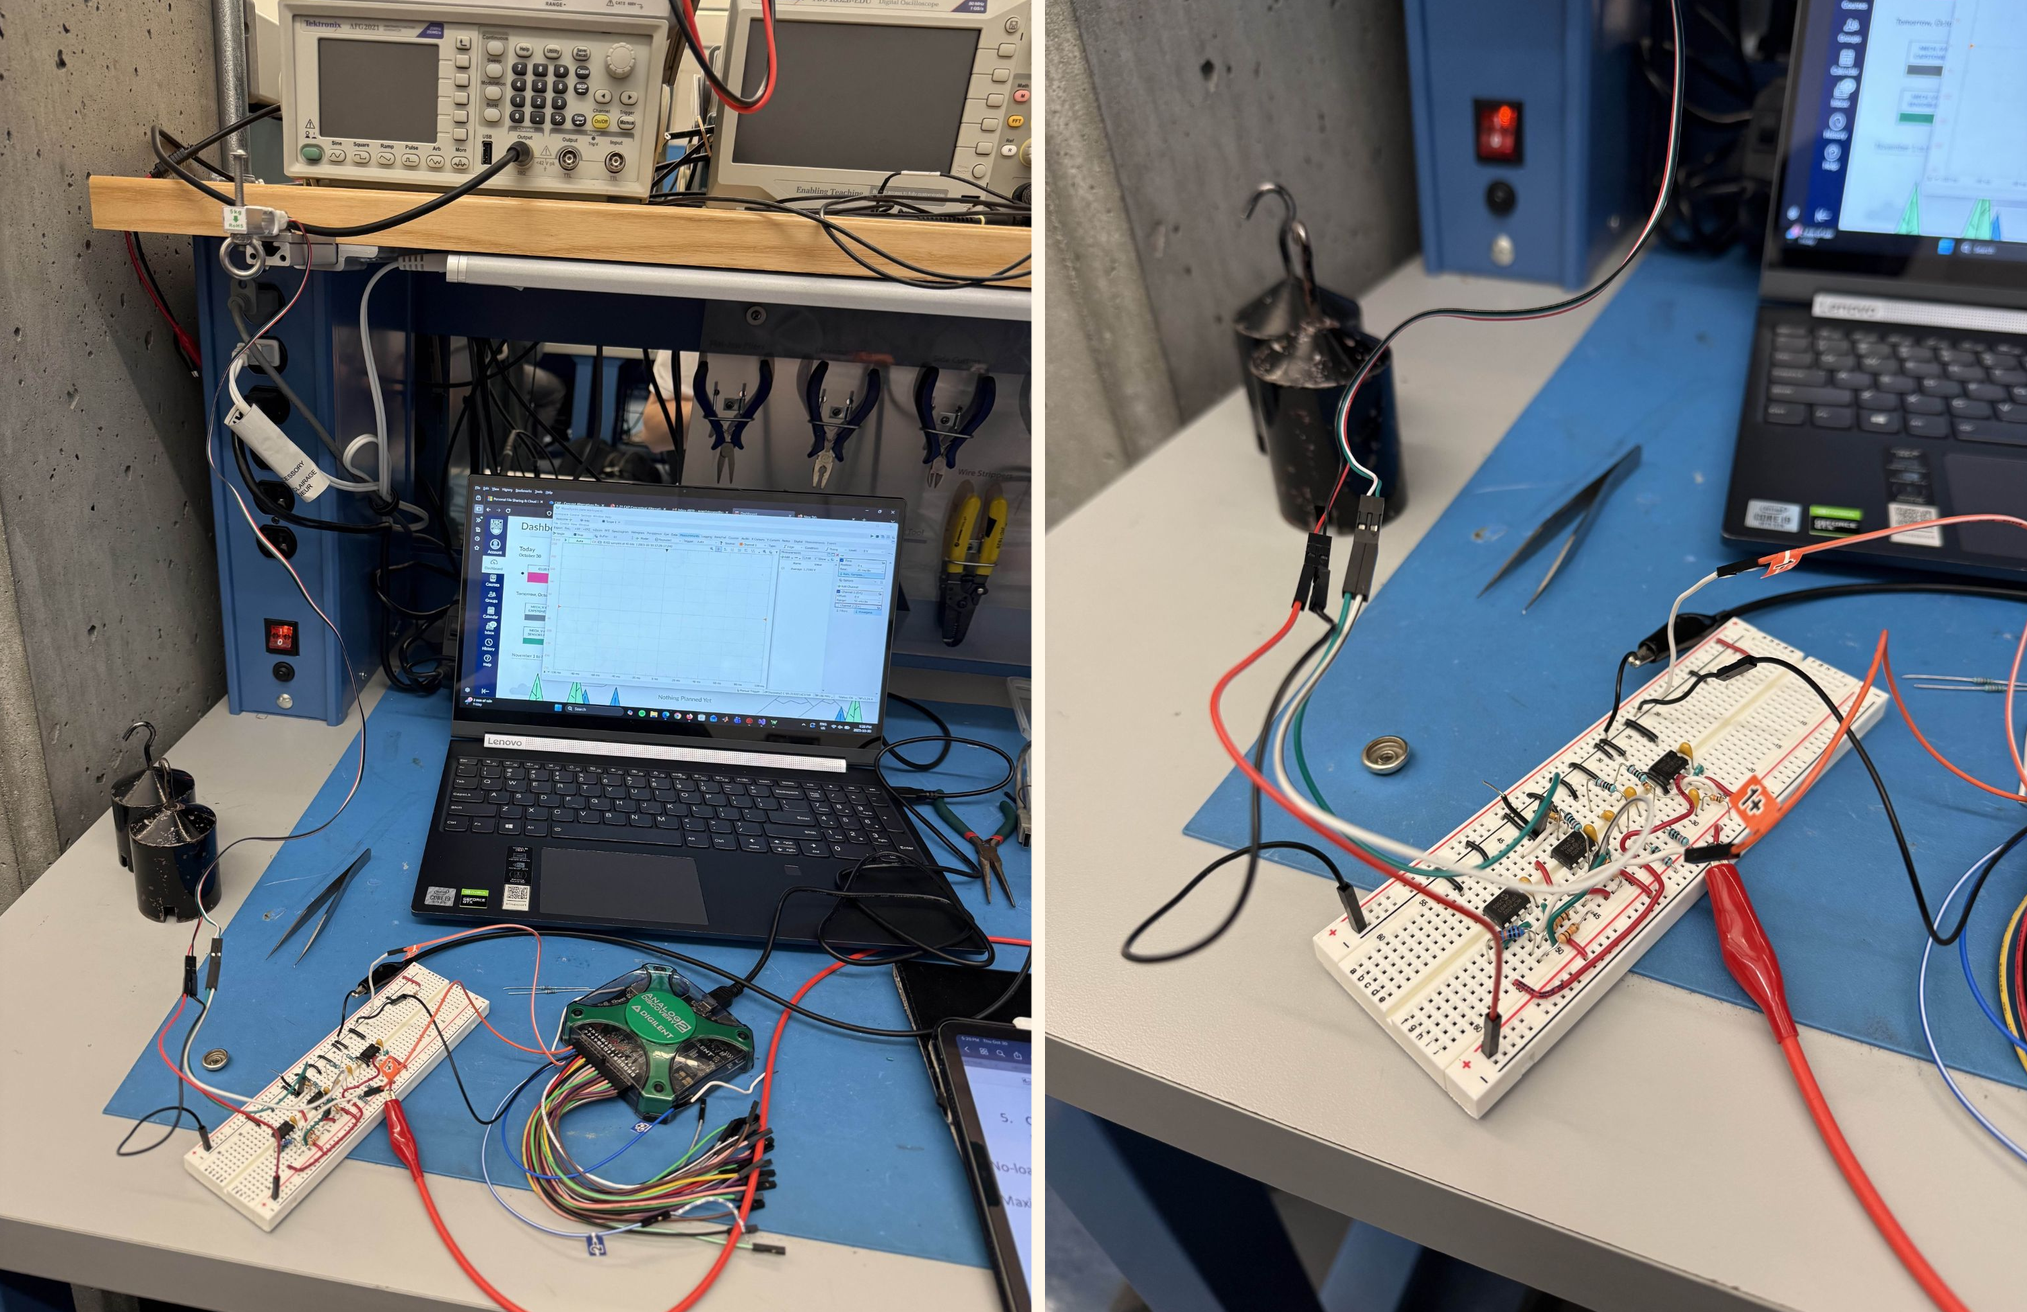
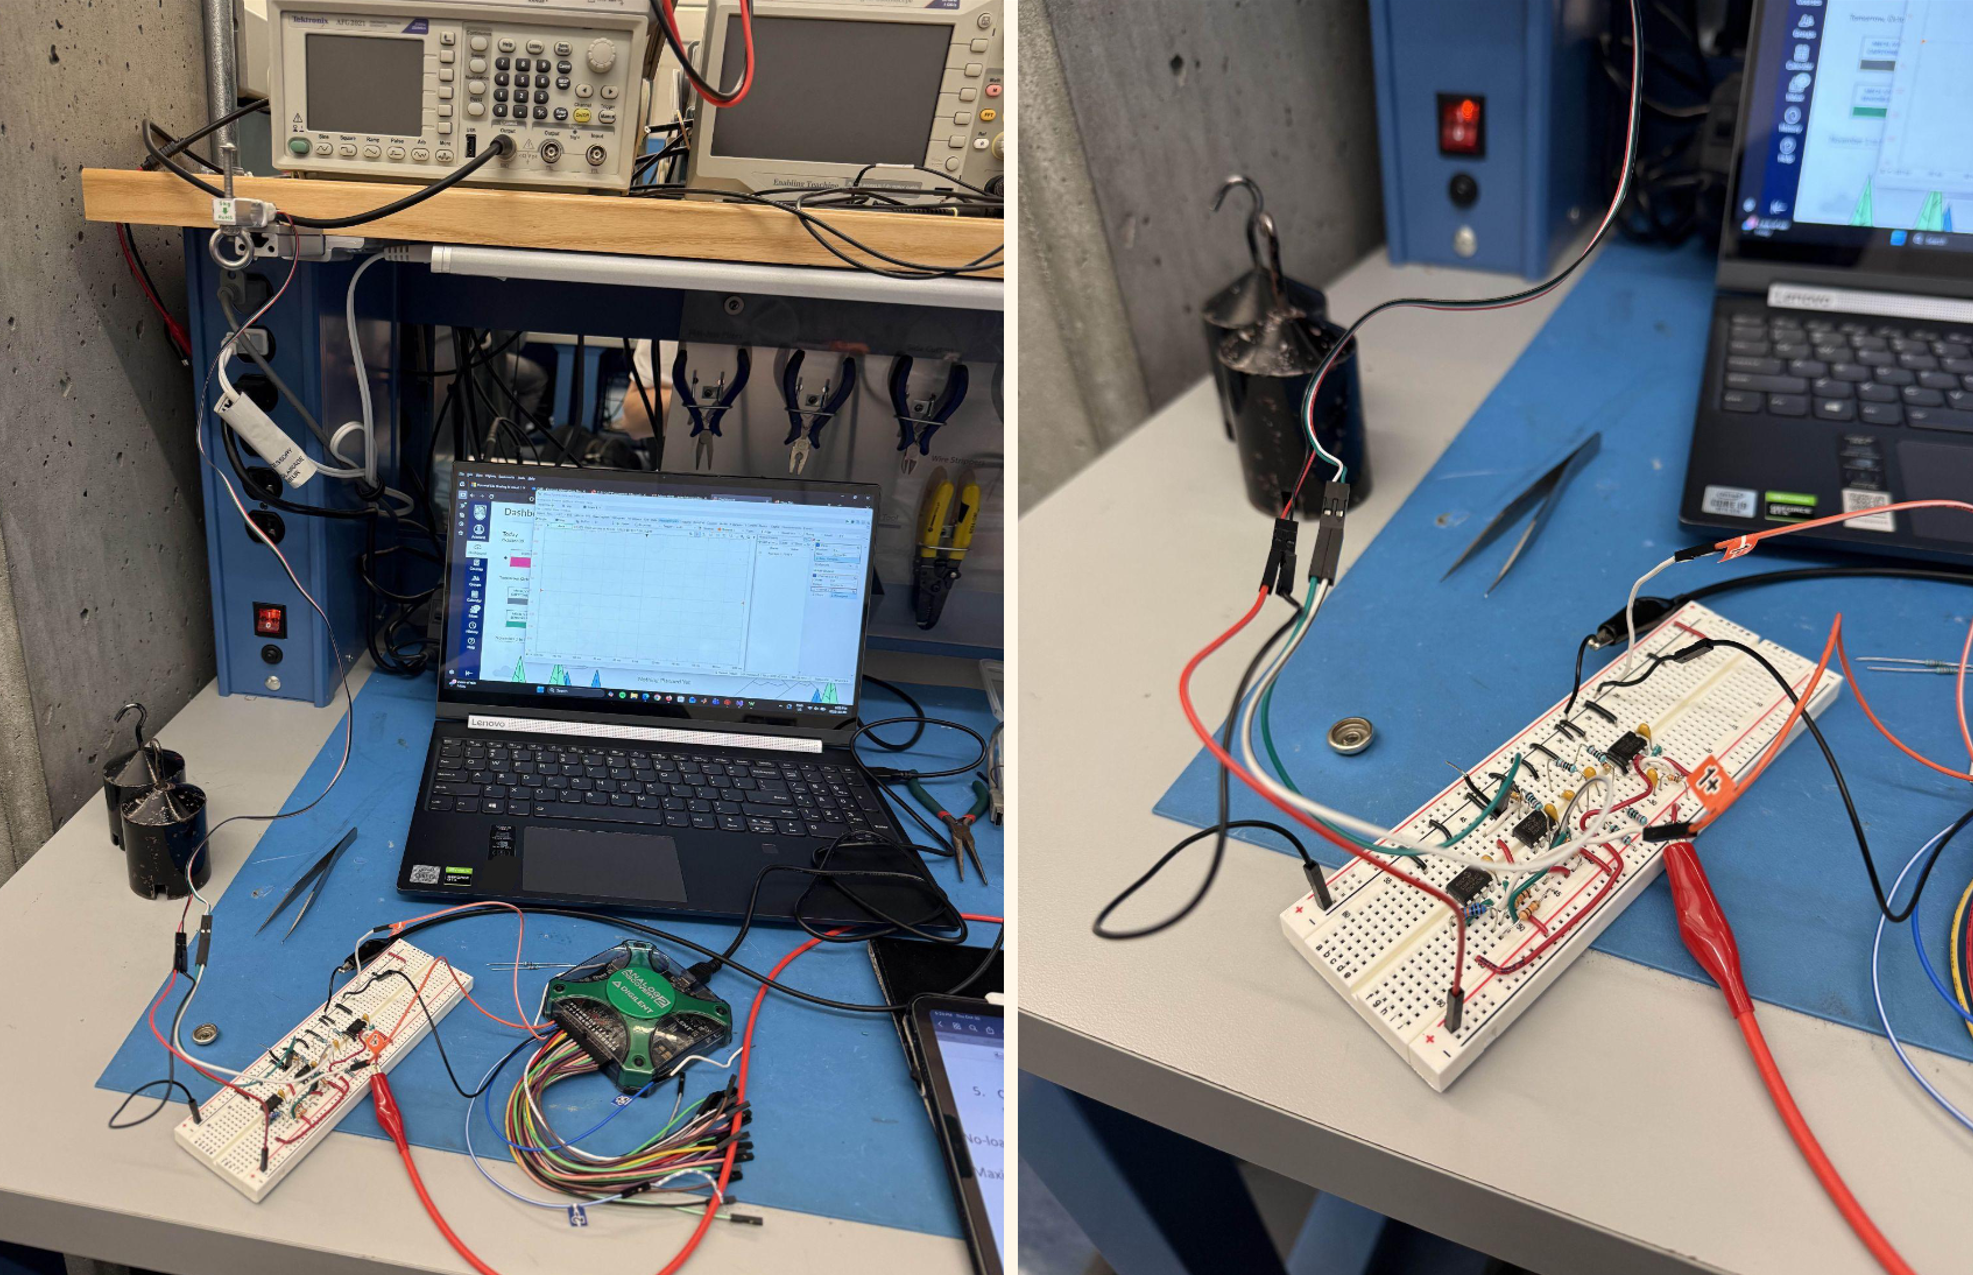
Adjusting images and adding content

diff --git a/index.html b/index.html
@@ -1911,6 +1911,29 @@ footer {
         </div>
       </div>
     </div>
+
+
+    <div class="project-card reveal reveal-delay-1" tabindex="0" data-project="pms">
+      <div class="project-card-img card-8-bg" style="background-image:url('images/sensors-00.png');background-size:cover;background-position:center;">
+        <div class="card-tag"><span class="card-tag-dot"></span> HACKATHON · DESIGN · ROBOTICS</div>
+      </div>
+      <div class="hover-reveal">
+        <div class="hover-reveal-content">
+          <div class="hover-reveal-desc"></div>
+          <span class="hover-reveal-cta">View Full Blueprint →</span>
+        </div>
+      </div>
+      <div class="project-card-body">
+        <div class="project-card-title">Weight Scale & NTC Temperature Sensor</div>
+        <div class="project-card-sub">Developing UI and Sensor Calibration | MECH 421 Sensor Lab</div>
+        <div class="project-card-footer">
+          <div class="spec-row"><span class="spec-pill">C#</span><span class="spec-pill">WinForms</span><span class="spec-pill">Circuits</span><span class="spec-pill">Instrumentation</span><span class="spec-pill">Firmware</span></div>
+          <span class="view-link">Blueprint →</span>
+        </div>
+      </div>
+    </div>
+
+
   </div>
 </section>
 
@@ -2805,31 +2828,51 @@ const PROJECTS = [
     title: 'Weight Scale & NTC Temperature Sensor',
     year: '2025',
     tag: 'SENSORS · CALIBRATION · FIRMWARE · SOFTWARE',
-    heroImg: 'images/sensors-00.png',
+    heroImg: 'images/sensors-10.png',
     heroImgPosition: 'center 40%',
     heroBg: 'linear-gradient(140deg, #0d1228 0%, #121a38 60%, #0a1020 100%)',
-    meta: { year: '2025', duration: '1 month', role: 'Lead', team: 'Solo' },
+    meta: { year: '2025', duration: '1 month', role: 'Solo', team: 'Solo' },
     overview: 'Given an MSP430FR5739 Microcontroller, wires, a breadboard, a strain gauge, and an NTC thermistor, I put together a functioning temperature sensor and weighing scale that operates with a C# WinForms UI. Calibration for the sensors was done by taking multiple data samples and either extrapolating an equation from the data or creating a lookup table. The temperature sensor could get between +/-3 degrees, while the weight scale was accurate for +/-10g.',
-    motivation: 'My interest in quantum error correction led me to ask whether classical logic-gate architectures could be adapted for cryogenic environments. This project bridged my embedded systems background with low-temperature physics, a genuinely new domain for me.',
-    images: [{ label: 'Dilution Fridge Setup' },{ label: 'Junction Array Micrograph' }],
-    video: { type: 'placeholder', label: 'Cryostat Boot Sequence (3m 22s)' },
-    tags: ['Sensors', 'Calibration', 'C#', 'WinForms', 'MATLAB', 'MSP430FR5739 Firmware'],
+    motivation: 'This lab project was created to make us more comfortable with interfacing sensors with their required circuits and firmware, then creating a visual representation of the data to record and collect information. It covers the basics of mechatronics and how important calibration and data are.',
+    images: [
+      { src: 'images/sensors-02.png', label: 'Thermistor Circuit Powered with 3.6V and Grounded by the MSP-Board and Reading Vout on the Discovery 2 Oscilloscope' },
+      { src: 'images/sensors-03.png', label: 'A Closer Look at the Thermistor Circuit with Labels' },
+      { src: 'images/sensors-04.png', label: 'Reading the Output Voltage when placing the NTC in the ~40°C Temperature Bath' },
+      { src: 'images/sensors-05.png', label: 'Verification of Temperature vs. Voltage Curve Fit' },
+      { src: 'images/sensors-06.png', label: 'Raw Data recorded by the C# UI and NTC Thermistor when dipping the sensor in different temperature baths' },
+      { src: 'images/sensors-07.png', label: 'Load Cell Apparatus Setup w/ Example Reference Weight' },
+      { src: 'images/sensors-08.png', label: 'Built Mock Strain Gauge Circuit on the Breadboard' },
+      { src: 'images/sensors-09.png', label: 'Built Instrumental Amplifier Circuit on the Breadboard' },
+      { src: 'images/sensors-00.png', label: 'Measuring the Load Cell using the Instrumental Amplifier Circuit' },
+      { src: 'images/sensors-11.png', label: 'Completed Built Circuit on the Breadboard' },
+    ],
+    tags: ['Sensors', 'Calibration', 'C#', 'WinForms', 'MATLAB', 'MSP430FR5739 Firmware', 'Oscilloscope'],
     links: [{ label: 'Lab Report', href: 'files/SensorsReport-NicholasYap.pdf', primary: true },],
+    sections: [
+      {
+        label: 'More Detail',
+        body: 'For more detail on this project, check out the lab report!',
+      },
+    ],
   },
   {
     id: 'bullet',
-    title: 'Exo-Skeletal Kinetic Actuator',
-    year: '2022',
-    tag: 'ROBOTICS · ACTUATION',
-    heroEmoji: '🤖',
+    title: 'Bullet Hell Game: The Game of Many Pews',
+    year: '2025',
+    tag: 'PROGRAMMING · GAME DEV',
+    heroImg: 'images/bullet-00.png',
+    heroImgPosition: 'bottom 30%',
     heroBg: 'linear-gradient(140deg, #1a1808 0%, #241e0a 60%, #16140a 100%)',
-    meta: { year: '2021–2022', duration: '14 months', role: 'Robotics Research Eng.', team: 'ETH ASL (4 members)' },
-    overview: 'Precision bio-mechanical force output system for rehabilitation exoskeletons. Implements variable-impedance control across 7 degrees of freedom, with real-time force sensing at 1kHz and voluntary patient intent detection via surface EMG.',
-    motivation: 'During my time at ETH Zürich I worked closely with physiotherapists who described the gap between what patients needed and what existing robotic assistants could provide. The actuator was my attempt to close that gap, specifically tackling the problem of making robot compliance feel natural rather than mechanical.',
-    images: [{ label: 'Actuator Assembly' },{ label: 'EMG Signal Processing' },{ label: 'Clinical Trial Session' }],
-    video: { type: 'placeholder', label: 'Patient Gait Assist Demo (1m 48s)' },
-    tags: ['C++', 'ROS2', 'Python', 'sEMG', 'Impedance Control', 'SolidWorks'],
-    links: [{ label: 'IEEE Publication', href: '#', primary: true },{ label: 'GitHub', href: '#' },{ label: 'Clinical Protocol', href: '#' }],
+    meta: { year: '2025', duration: '1 month', role: 'Solo', team: 'Solo' },
+    overview: 'The Game of Many Pews is a bullet hell game. You control a sprite character using the keyboard or an MSP430FR5739 like a joystick to dodge different kinds of bullets and collect points. There are power-ups to improve your chances of survival and provide more points. All of this was developed in a C# WinForms and utilizes an accelerometer on the MSP MCU that has coded firmware to communicate over UART, creating joystick controls.',
+    motivation: 'I always found bullet hell games to be cool. The goal is simple- dodge bullets and survive as long as possible. I wanted to create a fun game that can be played with simplistic controls and be able to create something similar to a Wii remote from my childhood by using a MSP MCU.',
+    images: [
+      { src: 'images/capstone-00.jpg', label: 'Prototyped Trash Retrieval Drone (Left) - Smaller Prototype Drone (Right)' },
+      { src: 'images/capstone-01.jpeg', label: 'Drone Perspective Shot' },
+    ],
+    video: { type: 'youtube', id: 'https://www.youtube.com/embed/XACHRlph4iE' },
+    tags: ['C#', 'WinForms', 'MSP430FR5739 Firmware', 'Code Composer Studio', 'Game Development',],
+    links: [{ label: 'Github Repository', href: 'https://github.com/Yuuki-NY/The-Game-Of-Many-Pews', primary: true },],
   },
   {
     id: 'capstone',
